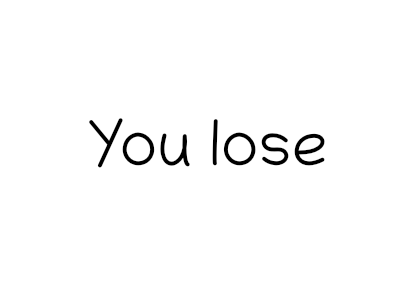
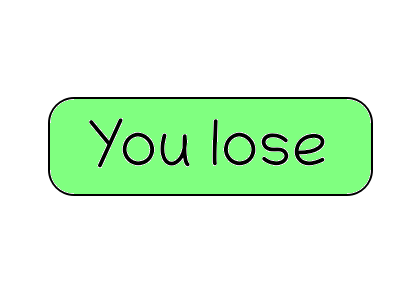
Add victory and game over graphics

Changed region(s): [[0.12, 0.3, 0.93, 0.66]]

diff --git a/maxine.py b/maxine.py
@@ -30,6 +30,10 @@ is hurt, and just gets points when she kills a monster.'''
 MAXINE_CHANGES_SIZE = True
 MAXINE_INITIAL_SCALE = 0.25
 MAXINE_CHANGE_FACTOR = 1.2
+'''These will make Maxine win when she is 4x the size (after about 8 hits) or
+lose when she is a quarter of the size.'''
+MAXINE_WIN_SIZE = 4
+MAXINE_LOSE_SIZE = 0.25
 maxine_current_scale = 1
 
 maxine = Actor('maxine')
@@ -180,6 +184,16 @@ def draw():
         rotation += 1
         draw_spiral(rotation + 0, WHITE)
         draw_spiral(rotation + 180, GREEN)
+
+    # Draw the victory or gameover graphics.
+    if maxine_current_scale <= MAXINE_LOSE_SIZE:
+        gameover = Actor('gameover')
+        gameover.pos = CENTER
+        gameover.draw()
+    elif maxine_current_scale >= MAXINE_WIN_SIZE:
+        victory = Actor('victory')
+        victory.pos = CENTER
+        victory.draw()
 
 def draw_cell(cell):
     if hasattr(cell, 'animation'):
